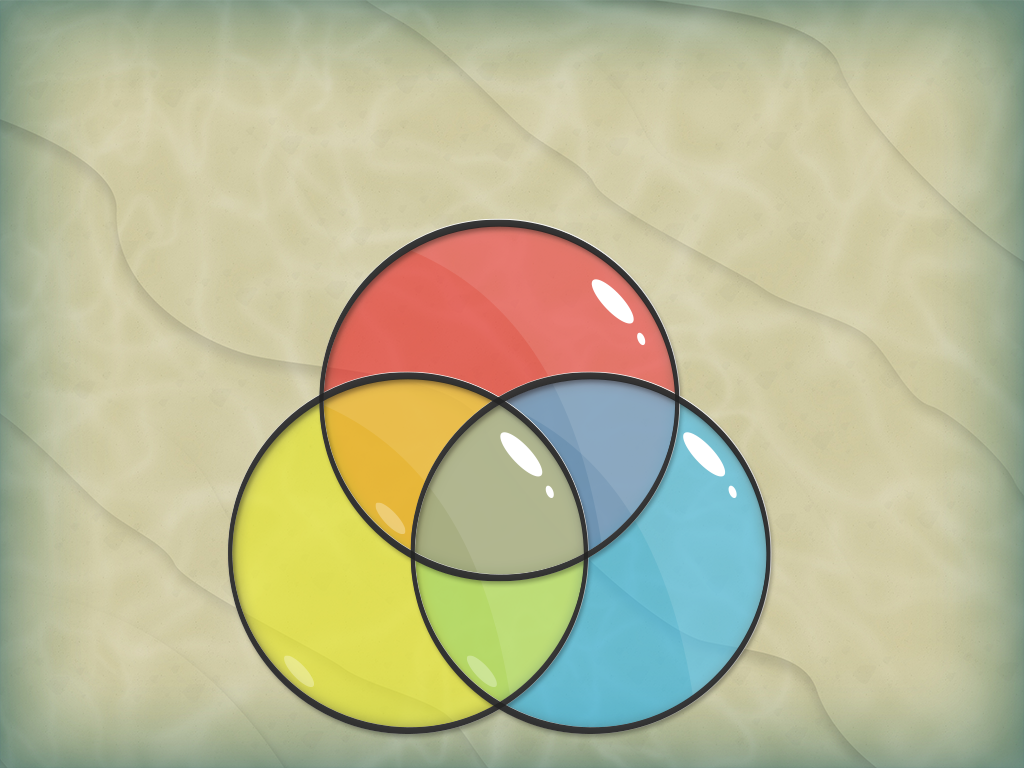
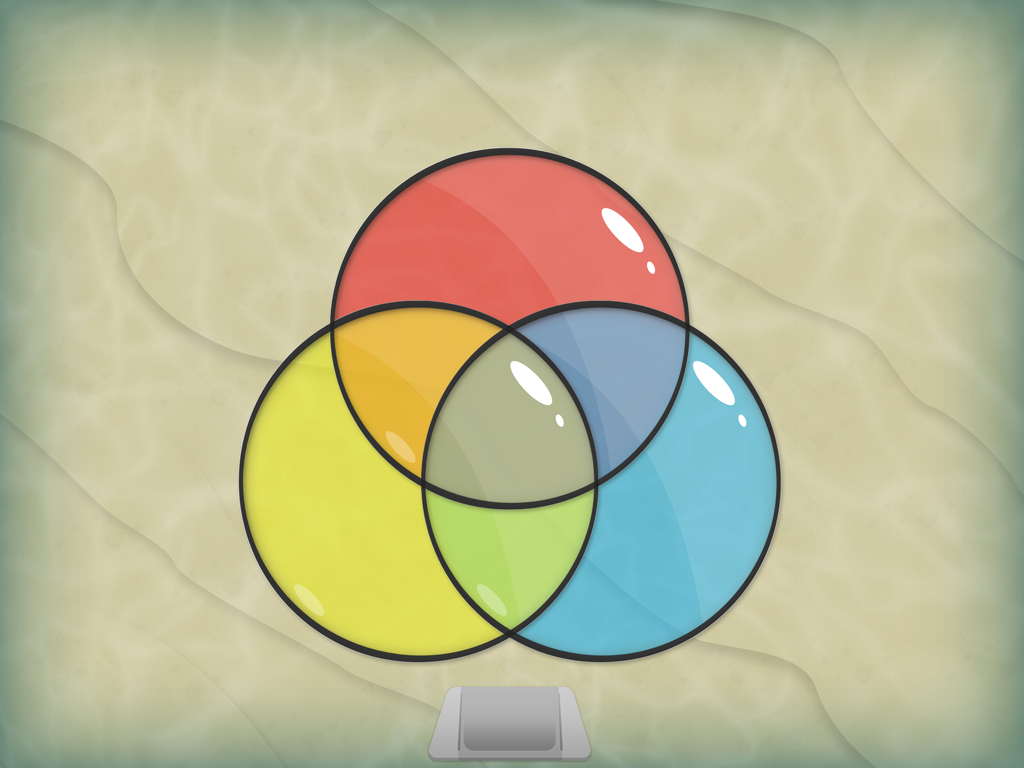
Laying out vectore circles

Changed region(s): [[0.2188, 0.1875, 0.7812, 1.0]]

diff --git a/main.js b/main.js
@@ -134,7 +134,7 @@ define(['exports', 'cocos2d', 'qlayer', 'polygonclip', 'toollayer', 'dropzone', 
             var self = this;
             this._super(question);
 
-            if (question.type === BAR_CHART) {
+            if (question.mode === BAR_CHART) {
 
                 this.setBackground(window.bl.getResource('barchart_base'));
                 
@@ -156,29 +156,57 @@ define(['exports', 'cocos2d', 'qlayer', 'polygonclip', 'toollayer', 'dropzone', 
                     this.addDraggable({x:510, y:60}, window.bl.getResource(card));
                 }
 
-            } else if (question.type === VENN_DIAGRAM) {
+            } else if (question.mode === VENN_DIAGRAM) {
 
                 this.setBackground(window.bl.getResource('venn_base'));
                 
                 var circles = [
                     {
                         r: 175,
-                        p: cc.p(233, 40)
+                        p: cc.p(245, 110)
                     },
                     {
                         r: 175,
-                        p: cc.p(416, 40)
+                        p: cc.p(428, 110)
                     },
                     {
                         r: 175,
-                        p: cc.p(325, 195)
+                        p: cc.p(335, 265)
                     }
                 ];
 
-                _.each(circles, function (c) {
-                    var path = Polygon.fromCCPoints(cc.DrawNode.generateCircle(cc.p(c.r, c.r), c.r));
-                    self.addDropZone(c.p, Polygon.toCCPoints(path.points));
+                _.each(circles, function (c1, i) {
+                    var path1 = cc.DrawNode.generateCircle(cc.p(c1.r, c1.r), c1.r);
+                    path1 = _.map(path1, function(p) {
+                        return cc.p(p.x + c1.p.x, p.y + c1.p.y);
+                    });
+                    path1 = Polygon.fromCCPoints(path1);
+
+                    // this is the start of working out all the segments
+                    // _.each(circles, function (c2, j) {
+                    //     if (i !== j) {
+
+                    //         var path2 = cc.DrawNode.generateCircle(cc.p(c2.r, c2.r), c2.r);
+                    //         // offset this path based on it's position
+                    //         path2 = _.map(path2, function(p) {
+                    //             return cc.p(p.x + c2.p.x, p.y + c2.p.y);
+                    //         });
+                    //         path2 = Polygon.fromCCPoints(path2);
+
+                    //         path1 = path2.clip(path1, 'difference')[0];
+
+                    //     }
+
+                    // });
+
+                    var path = Polygon.toCCPoints(path1.points);
+                    path = _.map(path, function (p) {
+                        return cc.p(p.x - c1.p.x, p.y - c1.p.y);
+                    });
+                    self.addDropZone(c1.p, path);
+
                 });
+
 
                 for (var i = 10 - 1; i >= 0; i--) {
                     var card = 'cards_lion_card';
